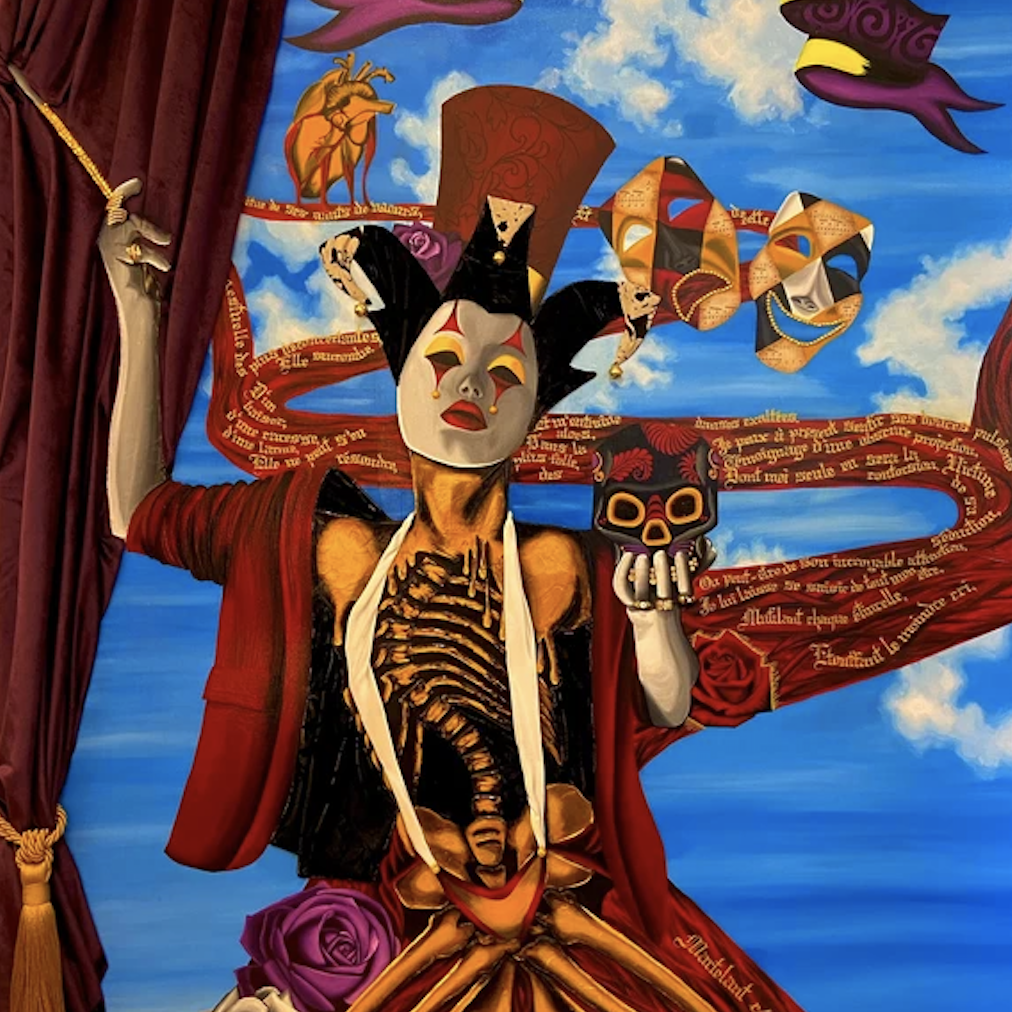
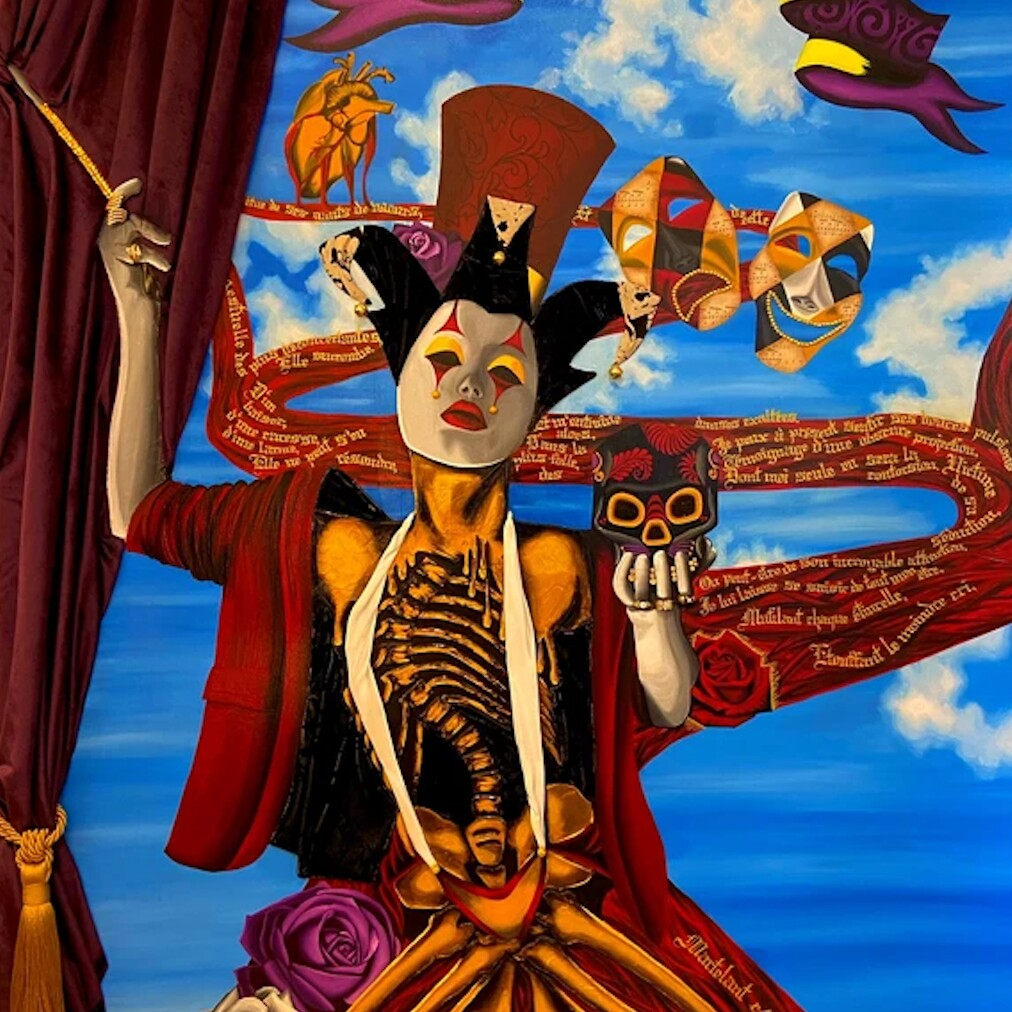
Compress Images

diff --git a/index.html b/index.html
@@ -1,16 +1,17 @@
 <!DOCTYPE html>
 <html>
-<!-- Ici la navigation du site -->
    <head>
       <meta charset="UTF-8" />
 	  <meta name="viewport" content="width=device-width, initial-scale=1.0">
       <title>Dedal Couleur</title>
+	  <link rel="icon" type="image/x-icon" href="images/LOGO.png">
       <link rel="stylesheet" href="CSS/style.css"/>
    </head>
    <body>
       <header>
          <div id="logo">
             <img src="images/LOGO.png" alt="logo site"/>
+			<!-- Navigation du site -->
             <section id="titre">
                <h1>DEDAL COULEURS</h1>
 				 <nav>
